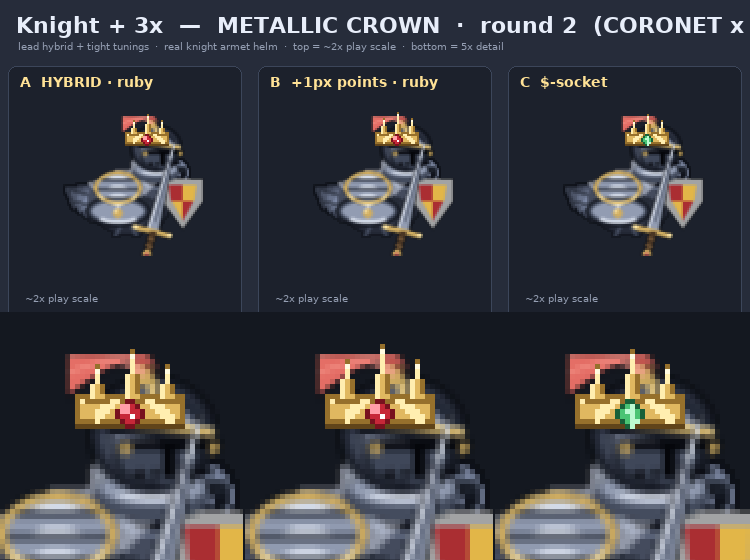
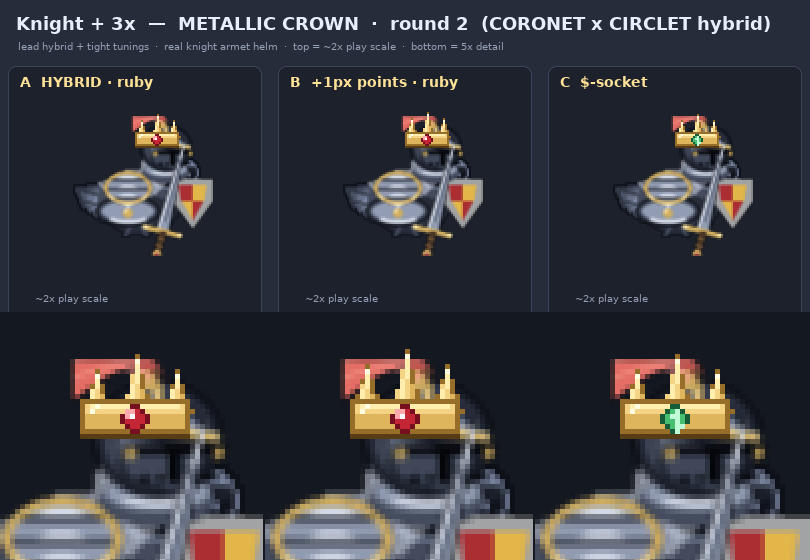
Knight crown round 2: CORONET x CIRCLET hybrid tuning sheet
https://claude.ai/code/session_0198wUfDSqXDZqGjdP4sx98r

diff --git a/tools/knight_crown_explore.py b/tools/knight_crown_explore.py
@@ -28,28 +28,39 @@ from game import parrot
 from game.knight_skin import BRASS, BRASS_HI
 
 # ── crown palette — a half-step warmer/brighter than the helm brass ──────────
-# The helm trim is BRASS/BRASS_HI. The crown is the same gold-on-steel family
-# but pushed a notch richer/royal so it reads as a crown, not just more trim:
-# the mid is warmer and lighter than BRASS, the highlight a touch hotter than
-# BRASS_HI. Deep seat below for the rounded bevel's shadow side.
-G_DK = (150, 112, 44)            # bevel shadow / band underside
-G_MID = (224, 184, 96)           # warm royal gold core (> BRASS 208,174,98)
-G_HI = (255, 238, 176)           # rim light (> BRASS_HI 255,232,168)
-G_GLINT = (255, 250, 224)        # hottest specular pip
-G_SEAT = (96, 68, 26)            # contact shadow where the band meets the dome
-RUBY = (198, 40, 56); RUBY_DK = (120, 18, 30); RUBY_HI = (255, 158, 168)
+# The helm trim is BRASS (208,174,98) / BRASS_HI (255,232,168). The crown is
+# the same gold-on-steel family but pushed a notch richer/royal so it reads as
+# a CROWN, not just more trim. The band uses a full 5-step ramp so its bevel
+# reads as a ROUNDED armour ring (a gradient top→bottom), never a flat painted
+# strip: seat-shadow → bevel-dark → warm mid core → warm light → specular pip.
+G_SEAT = (88, 60, 22)            # contact shadow where the band meets the dome
+G_DK = (150, 110, 42)            # lower bevel (curving away from the light)
+G_MID = (222, 180, 92)           # warm royal gold core (> BRASS 208,174,98)
+G_LT = (244, 212, 132)           # upper-mid lit gold (between core and rim)
+G_HI = (255, 238, 174)           # rim light (> BRASS_HI 255,232,168)
+G_GLINT = (255, 252, 228)        # hottest specular pip
+# Ruby: dark bezel, a 2-value faceted body (lower-right deeper, upper-left
+# brighter) and one white spark — a single warm gem does the work.
+RUBY = (196, 38, 54); RUBY_DK = (118, 16, 30)
+RUBY_LT = (236, 92, 96); RUBY_HI = (255, 168, 174)
 # The $-socket option: green tied to the 3x/wealth read (kept OUT of slot 1 so
 # the colourblind-safe ruby stays the lead).
-DOL = (74, 196, 116); DOL_DK = (24, 96, 56); DOL_HI = (188, 250, 210)
+DOL = (70, 192, 112); DOL_DK = (22, 92, 54); DOL_HI = (192, 252, 214)
 
 
 def _ruby_gem(surf, cx, cy, r):
-    """Faceted ruby set into the band face: dark bezel, body, upper-left glint
-    + a single white spark. Light from upper-left to match the helm."""
+    """Faceted ruby set into the band face. Light from the upper-left to match
+    the helm: dark bezel ring, a saturated body split into a deeper lower-right
+    and a brighter upper-left facet, then one white spark. Two body values are
+    what make a 4-5px stone read as cut rather than a flat dot."""
+    # bezel ring (one px proud of the body all round)
     pygame.draw.circle(surf, RUBY_DK, (cx, cy), r + 1)
+    # deeper body fills the whole stone, then the lit facet is laid upper-left
     pygame.draw.circle(surf, RUBY, (cx, cy), r)
-    pygame.draw.circle(surf, RUBY_HI, (cx - max(1, r // 3), cy - max(1, r // 3)), max(1, r // 2))
-    surf.set_at((cx - r // 3, cy - r // 3), (255, 255, 255))
+    pygame.draw.circle(surf, RUBY_LT, (cx - 1, cy - 1), max(1, r - 1))
+    # tiny bright facet + a single white spark, both upper-left
+    pygame.draw.circle(surf, RUBY_HI, (cx - 1, cy - 1), max(1, r // 2))
+    surf.set_at((cx - 1, cy - 1), (255, 255, 255))
 
 
 def _dollar_gem(surf, cx, cy, r):
@@ -65,35 +76,39 @@ def _dollar_gem(surf, cx, cy, r):
 
 
 def _band(surf, x0, x1, y, h):
-    """Thick coronet band with CIRCLET-grade rounded bevel: a dark contact
-    seat under the dome, a warm gold core, then a bright rim-light arc along
-    the upper-left edge so the band reads as a rounded armour ring, not a flat
-    painted strip. Band is ~1.3x the round-1 height (h>=6)."""
+    """Thick coronet band with CIRCLET-grade ROUNDED bevel. Rather than one
+    flat strip + outline, the band is a top→bottom value ramp — bevel-dark
+    along the bottom, warm core through the middle, a bright lit row near the
+    top and a thin specular rim hugging the upper-left — so it reads as a
+    curved armour ring catching upper-left light. ~1.3x the round-1 band (h=7).
+    """
     w = x1 - x0
     # contact shadow where gold meets the steel dome
-    pygame.draw.rect(surf, G_SEAT, (x0, y + h - 1, w, 2))
-    # dark bevel underside (the part curving away from the light)
+    pygame.draw.rect(surf, G_SEAT, (x0, y + h, w, 1))
+    # full-height bevel-dark base; successive insets from the BOTTOM build the
+    # rounded ramp so the lower edge stays dark and the light climbs the face
     pygame.draw.rect(surf, G_DK, (x0, y, w, h))
-    # warm gold core inset from the underside so G_DK shows as a lower bevel
     pygame.draw.rect(surf, G_MID, (x0 + 1, y + 1, w - 2, h - 2))
-    # rounded rim-light hugging ONLY the upper edge (upper-left brightest) — a
-    # short arc whose ellipse extends well below the band so just its top crown
-    # is drawn, giving a curved rather than flat-painted highlight.
-    pygame.draw.arc(surf, G_HI, (x0, y, w, h * 4), math.radians(40), math.radians(140), 1)
-    pygame.draw.line(surf, G_HI, (x0 + 1, y + 1), (x0 + w // 2, y + 1), 1)
-    surf.set_at((x0 + 2, y + 1), G_GLINT)
+    # upper-mid lit row + bright rim row sit in the top of the band only
+    pygame.draw.rect(surf, G_LT, (x0 + 1, y + 1, w - 2, 2))
+    pygame.draw.rect(surf, G_HI, (x0 + 2, y + 1, w - 4, 1))
+    # the brightest specular climbs toward the upper-LEFT corner of the band
+    surf.set_at((x0 + 3, y + 1), G_GLINT)
+    surf.set_at((x0 + 2, y + 2), G_GLINT)
 
 
 def _fat_point(surf, cx, base_y, top_y, half):
     """A fat, clearly triangular gold point (base width = 2*half, kept >=3px).
-    Dark bevel body + warm core + an upper-left lit edge so the points read as
-    the same rounded metal as the band. No thin spikes."""
+    Same rounded-metal read as the band: a dark bevel triangle, a warm core
+    inset off the right/under edges, a lit upper-left face climbing to the tip,
+    and a glint pip. No thin spikes."""
     # dark full triangle (bevel/shadow)
     pygame.draw.polygon(surf, G_DK, [(cx - half, base_y), (cx + half, base_y), (cx, top_y)])
     # warm core, inset on the right/underside so the dark shows as edge bevel
-    pygame.draw.polygon(surf, G_MID, [(cx - half + 1, base_y - 1), (cx + half - 1, base_y - 1), (cx, top_y + 2)])
-    # lit upper-left face + a glint at the tip
-    pygame.draw.line(surf, G_HI, (cx - half + 1, base_y - 1), (cx, top_y + 1), 1)
+    pygame.draw.polygon(surf, G_MID, [(cx - half + 1, base_y), (cx + half - 1, base_y), (cx, top_y + 2)])
+    # lit upper-left face: a filled sliver hugging the left edge up to the tip
+    pygame.draw.polygon(surf, G_LT, [(cx - half + 1, base_y), (cx - half + 2, base_y), (cx, top_y + 2), (cx, top_y + 3)])
+    pygame.draw.line(surf, G_HI, (cx - half + 2, base_y - 1), (cx, top_y + 1), 1)
     surf.set_at((cx, top_y + 1), G_GLINT)
 
 
@@ -102,14 +117,15 @@ def _coronet(surf, cx, cy, point_dh=0, gem="ruby"):
     tallest), one centred gem in the band face. `point_dh` nudges point height
     (-1/0/+1 native px); `gem` is 'ruby' or 'dollar'."""
     half = 11
-    h = 6                       # ~1.3x the round-1 band (was 5, mostly 4)
+    h = 7                       # ~1.3x the round-1 band (was 5, mostly 4)
     by = cy
-    _band(surf, cx - half, cx + half, by, h)
-    # three fat points: outer pair shorter, centre tallest, all base>=3px
+    # points sit UNDER the band draw so the band's lit top edge crosses cleanly
+    # in front of each point base — the points read as rising FROM the ring.
     ch = 9 + point_dh           # centre point height above the band top
     sh = 6 + point_dh           # side point height
-    for dx, ph, hw in ((-7, sh, 2), (0, ch, 2), (7, sh, 2)):
-        _fat_point(surf, cx + dx, by + 1, by - ph, hw)
+    for dx, ph, hw in ((-8, sh, 3), (0, ch, 3), (8, sh, 3)):
+        _fat_point(surf, cx + dx, by + 2, by - ph, hw)
+    _band(surf, cx - half, cx + half, by, h)
     # gem seated in the band face, centred over the brow
     if gem == "ruby":
         _ruby_gem(surf, cx, by + h // 2 + 1, 2)
@@ -173,15 +189,15 @@ def main():
     DIM = (150, 160, 180)
 
     cols = 3
-    cell_w = 250
+    cell_w = 270
     cell_h = 500
     head_h = 60
     sheet = pygame.Surface((cols * cell_w, head_h + cell_h), pygame.SRCALPHA)
     sheet.fill(BG)
 
-    title = pygame.font.SysFont("dejavusans", 22, bold=True).render(
+    title = pygame.font.SysFont("dejavusans", 18, bold=True).render(
         "Knight + 3x  —  METALLIC CROWN  ·  round 2  (CORONET x CIRCLET hybrid)", True, INK)
-    sheet.blit(title, (16, 12))
+    sheet.blit(title, (16, 13))
     subtitle = sub_font.render(
         "lead hybrid + tight tunings  ·  real knight armet helm  ·  top = ~2x play scale  ·  bottom = 5x detail",
         True, DIM)
@@ -207,7 +223,7 @@ def main():
         sheet.blit(cap, (panel.centerx - s2.get_width() // 2, panel.y + 32 + s2.get_height() + 2))
 
         # 5x detail crop — zoom the head/helm region only
-        crop = pygame.Rect(int(CROWN_CX - 27), int(CROWN_CY - 16), 52, 54)
+        crop = pygame.Rect(int(CROWN_CX - 28), int(CROWN_CY - 17), 56, 56)
         crop = crop.clamp(composed.get_rect())
         head = composed.subsurface(crop).copy()
         s5 = pygame.transform.scale(head, (head.get_width() * 5, head.get_height() * 5))
